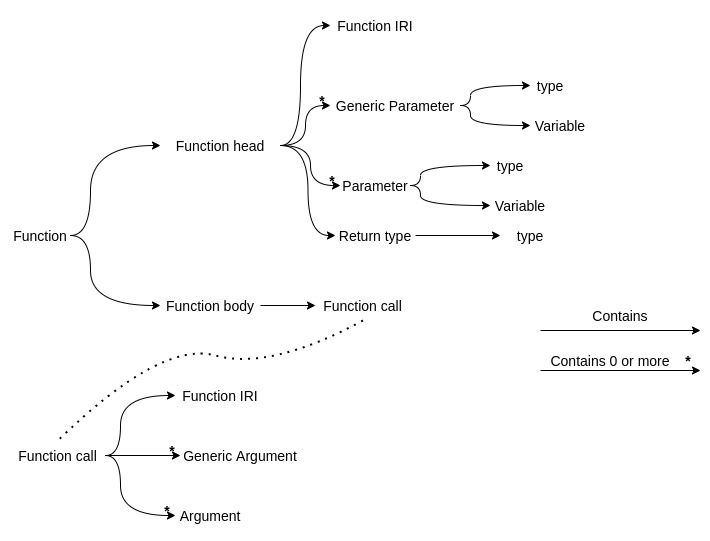
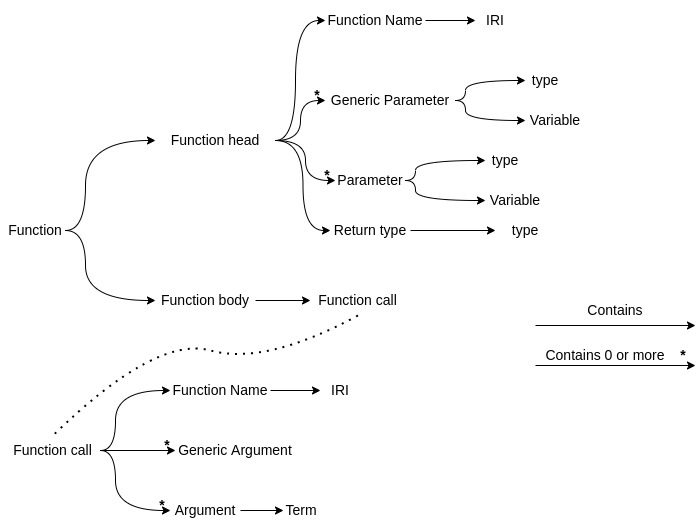
first draft HRS section

diff --git a/src/chapters/design.tex b/src/chapters/design.tex
@@ -137,6 +137,7 @@ IDEAS:
 \end{itemize}
 
 \subsection{Human Readable Syntax}
+The Human Readable Syntax of Frog, abbreviated with HRS, is based on known programming languages such as python, java and LISP. As a result of Frog having equal terms and types as its OTTR counterpart, OTTR will also inspire HRS. As shown in figure \ref{fig:term}, parameter variable is also a term, resulting in the syntax of a variable in the HRS being the same as in sTOTTR, namely with an? followed with the name of the varible, for instance ?number.  Figure \ref{fig:frogFunctionHRS} depicts a general Frog function written HSM, as python and java have inspired the function head. On the other hand, LISP inspires the function body or the function call. 
 
 \begin{figure}[h]
     \lstinputlisting[language=frog, firstnumber = 1]{examples/Frog/hrsExample.frog}
@@ -144,14 +145,31 @@ IDEAS:
     \label{fig:hrs_example}
 \end{figure}
 
+\para
+A consequence of Frog inheriting terms from OTTR, which again is built up by a subset of RDF turtle (KILDE 1 side 4), is that some patterns would be natural to use, such as <> to define generic arguments and variables, already is in use. In the case of generic arguments and variables, an IRI can be written with \lstinline{<>}, for instance, \lstinline{<http://ns.frog.ottr.xyz/0.1#functionCall>} is the same as the short form :functionCall. As a result of the pattern \lstinline{<>} already being in use, we have decided to define the set of generic arguments and variables with \lstinline{<<>>} to make it somehow similar to javas way to express the set of generic arguments and variables.
+
+\begin{figure}
+    \centering
+    \includegraphics[width=1\textwidth]{frogFunctionHRS.png}
+    \caption{A genralisation showing Frogs human readable syntax }
+    \label{fig:frogFunctionHRS}
+\end{figure}
+
+\para 
+The HRS portrays the different concepts in the Frog Functions in the following ways\footnote{Note that the formal defintion of both the function call and the function is found in section \ref{implHRS}}:
 \begin{itemize}
-    \item example 
-    \item explenation of how the syntax is build up
-    \begin{itemize}
-        \item LISP 
-        \item OTTR 
-    \end{itemize}
+    \item The function's name will be an IRI uniquely identifying the function. Similarly to the function name in the RDF syntax and the template name in stOTTR. Before the function name, def is used to define the start of the function. 
+    \item The set of the generic variables are defined inside <<>> and separated with ,. To define what type the generic variable is a subtype of, we write subtypeOf between the generic variable and type.
+    \item The set of parameters are defined inside () and separated with ,.  The HRS defines the parameter type before the parameter name, similar to Java and OTTR.
+    \item The HRS defines the return type after the set of parameters with an -> followed by the type of the return value.
+    \item Frogs HRS utilises :: as a distinction between the function head and the function body.
+    \item The function body is defined as a function call.
+    \item HRS ends every function with a . similar to how templates end with an . in stOTTR.   
 \end{itemize}
+
+\para 
+A function call in the HRS consist of four parts. Firstly, the optional :functionCall IRI,  similar to the IRI found in the RDF syntax. However, the :functionCall  IRI is mandatory if the function call does not contain any arguments due to Frog needing to distinguish between a list term containing one IRI and a function call. We have, however, decided that the :functionCall is optional otherwise since this will result in a more compact syntax and that we assume that there will be few functions that do not expect any arguments. Secondly, the function call contains the function name, the IRI, of the function it is calling on. Thirdly, the set of generic variables found inside <<>> separated with ,.  The set of generic arguments is also optional, depending on what the function the function call utilises expects. Lastly, the function call contains zero or more arguments.
+
 
 \section{Extension of the OTTR type system}
 \label{extension_ottr_type}

diff --git a/src/chapters/semanticWeb.tex b/src/chapters/semanticWeb.tex
@@ -75,6 +75,7 @@ Secondly, we can make lists by using collections. The main difference between a 
 
 \begin{figure}[h]
     \begin{example}
+        \label{rdfCollection}
         Same rdf triples as in example \ref{rdf2}, with the addition of Sebastian's ancestors in a collection
     \end{example}
     \lstinputlisting[language=turtle, firstnumber = 1]{examples/semanticWeb/rdfList.ttl}
@@ -390,7 +391,7 @@ OTTR provides three different expansion modes. We can use the expansions modes o
 
 \begin{figure}
     \begin{example}
-        A OTTR template modelling a person with the same properties as in section \ref{rdf}. The result of expanding the instances on the bottom would be the same as shown in figure X (RDF SECTION)
+        A OTTR template modelling a person with the same properties as in section \ref{rdf}. The result of expanding the instances on the bottom would be the same as shown in example \ref{rdfCollection}
     \end{example}
     \lstinputlisting[language=turtle, firstnumber = 1]{examples/semanticWeb/OTTRExample.ottr}
 \end{figure}

diff --git a/src/chapters/implementation.tex b/src/chapters/implementation.tex
@@ -3,6 +3,7 @@
 
 \section{Parser}
 \subsection{Human Readable Syntax}
+\label{implHRS}
 \subsection{RDF Syntex}
 
 \section{Type Checking}
